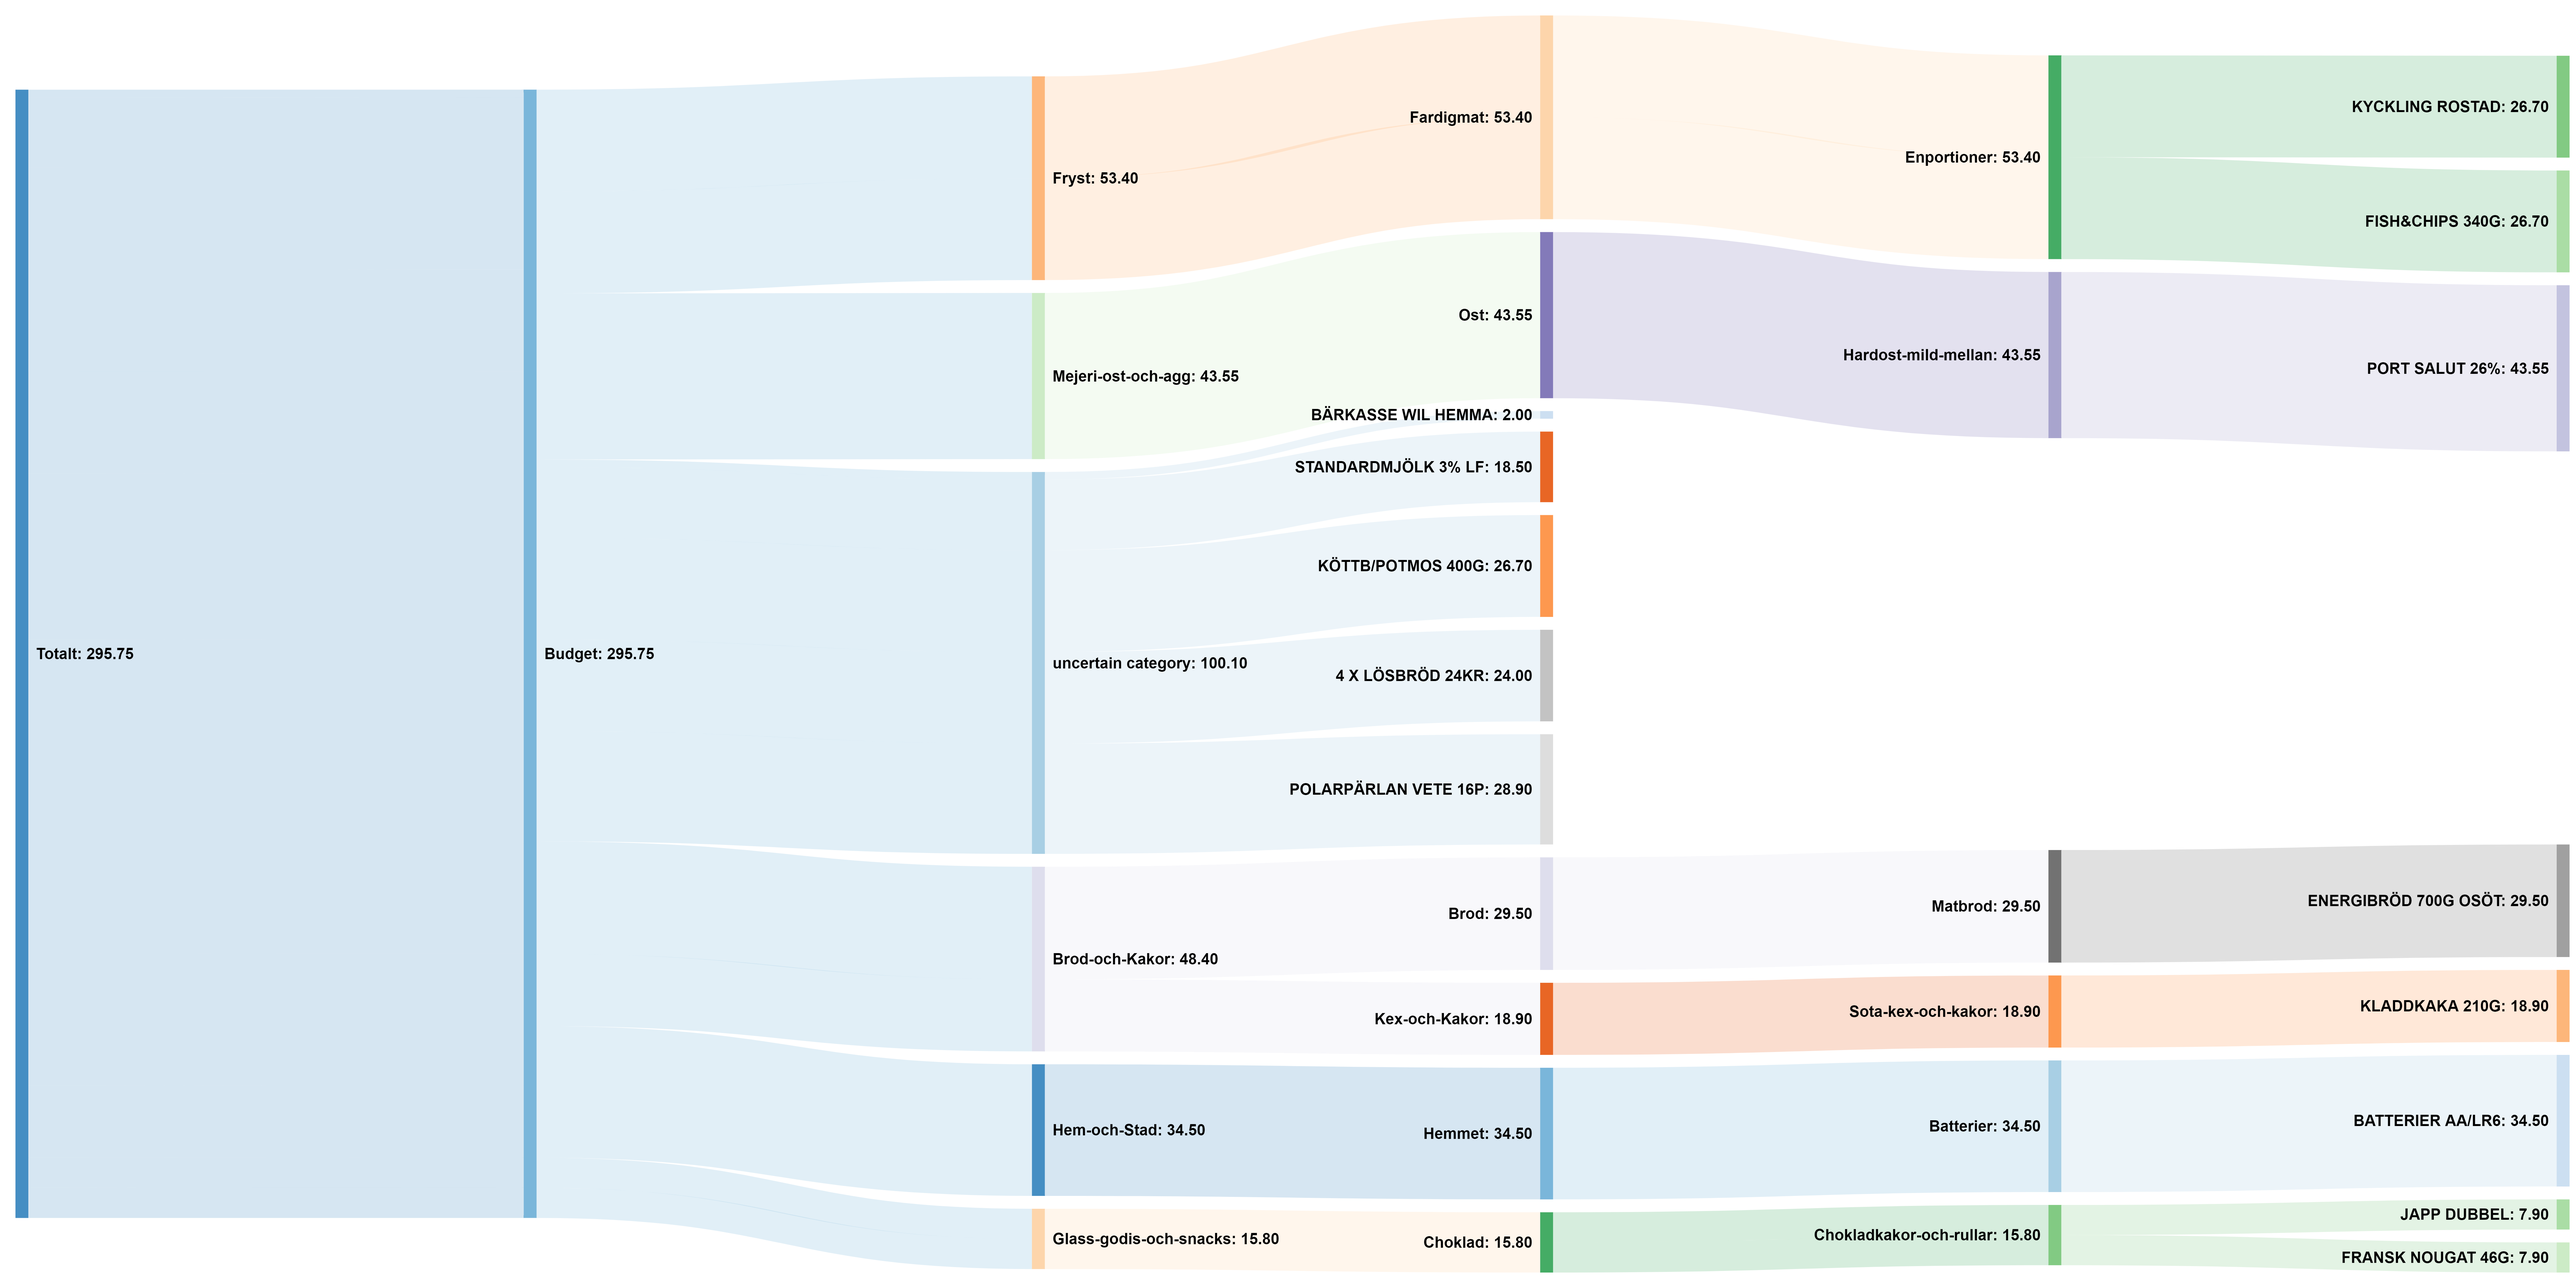
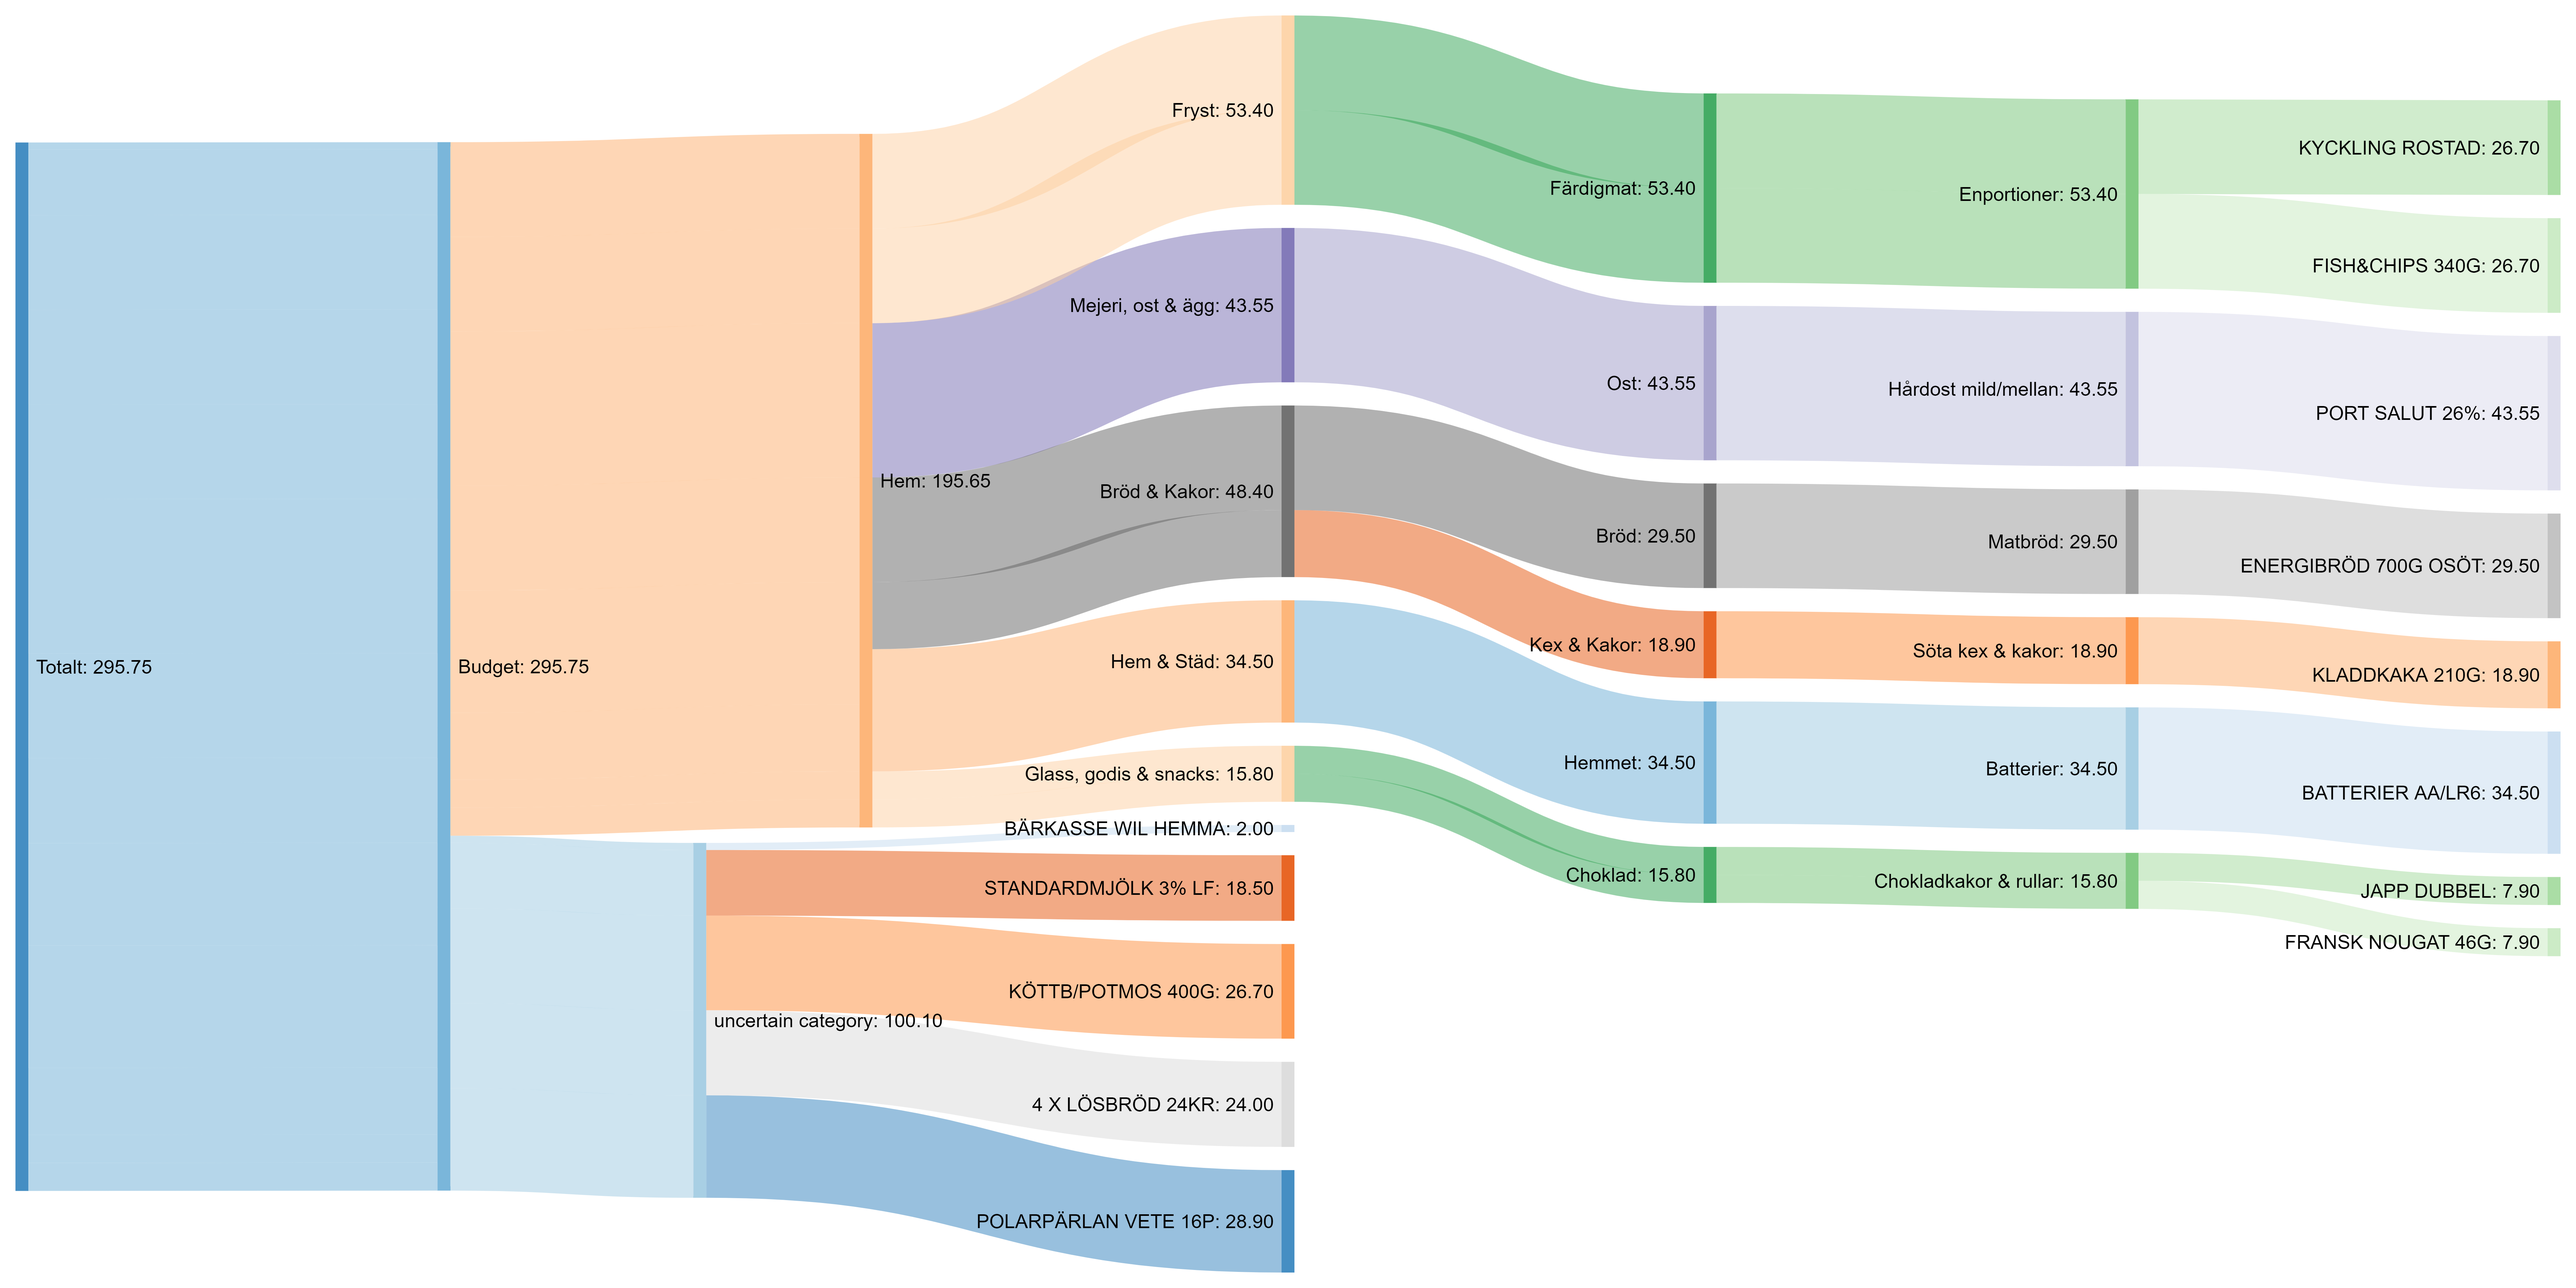
Non functioning. Reading multiple pdfs, but with async issues

diff --git a/willys.js b/willys.js
@@ -18,12 +18,19 @@ var password = "";
 // PDF-parse
 const fs = require('fs');
 const pdf = require('pdf-parse');
-let dataBuffer = fs.readFileSync('examplereceipts/2.pdf');
+
+let dataBuffer = fs.readFileSync('examplereceipts/1.pdf');
 
 //Puppeteer
 const puppeteer = require('puppeteer')
 const screenshot = 'instagram.png';
 
+var theprompt = 
+[
+	{name: 'Press enter to start'},
+    {name: 'username', validator: /^[0-9]{10}$/, warning: 'Användarnamnet skall ha formatet ÅÅMMDDXXXX'},
+    {name: 'password', hidden: true},
+];
 
 
 
@@ -34,22 +41,6 @@ const screenshot = 'instagram.png';
  //---------------------------------------------------------------------------------
 
 /*
-var theprompt = [
-	{
-        name: 'Press enter to start',
-    },
-    {
-        name: 'username',
-		//Regex för att vara på den säkra sidan
-        validator: /^[0-9]{10}$/,
-        //Om Regexen inte stämmer
-        warning: 'Användarnamnet skall ha formatet ÅÅMMDDXXXX'
-    },
-    {
-        name: 'password',
-        hidden: true
-    },
-];
 
 // Starta prompten för att ta användarinput
 prompt.start();
@@ -66,6 +57,7 @@ prompt.get(theprompt, function (err, result) {
 });
 */
 
+
 wellees("name", "password"); //Ta bort denna när prompten läggs in igen
  
  
@@ -79,7 +71,7 @@ function wellees(username, password){
 
 	(async () => {
 		const browser = await puppeteer.launch({
-			headless: false,    
+			headless: true,    
             args: ['--no-sandbox'] //linux-chromium fix
 		});
 
@@ -123,19 +115,17 @@ function wellees(username, password){
 		// let dataBuffer = fs.readFileSync('examplereceipts/1.pdf');
 		*/
 		
+		
+		// - - - - - - D O W N L O A D    R E C E I P T S - - - - - - - 
+		
+		//Download them into a folder named 1.pdf - n.pdf 
+		
+		
 		// - - - - - P A R S E    R E C E I P T S - - - - - -
 		
-		var receiptString = ""; 
-		
-		//Read text from receipt pdf
-		await pdf(dataBuffer).then(function(data) {
-			receiptString = data.text;
-			console.log(data.text);
-		});
-		
-		
 		//Parse receipt to list of articles and their prices
-		var articles = await parseArticles(receiptString); //Articles have structure: [[Article, Price], ...] where article and price are strings
+		var articles = await parseAllArticles("examplereceipts"); //Articles have structure: [[Article, Price], ...] where article and price are strings
+		
 		
 		
 		
@@ -161,7 +151,7 @@ function wellees(username, password){
 
 				//Skip if search yielded no results, and add "uncertain" as category of object
 				if(grid == "<!----><!---->"){
-					articles[i].push(["uncertain category"]);
+					articles[i].push(["Osäker kategori"]);
 					continue;
 				}
 
@@ -173,7 +163,7 @@ function wellees(username, password){
 				await page.waitForSelector("#selenium--product-detail-dialog > md-dialog-content > div.md-dialog-content > p > small:nth-child(2) > a > span"); //Wait for categories to load (all categories have at least 2 levels)
 				const categories = await page.evaluate(() => {
 					let categoryArray = [];
-					let links = document.querySelectorAll("#selenium--product-detail-dialog > md-toolbar > div > div > small > a");
+					let links = document.querySelectorAll("#selenium--product-detail-dialog > md-toolbar > div > div > small > a"); //Each subcategory is a separate link
 					console.log("Hejhej");
 					links.forEach(link => {
 						categoryArray.push(link.firstChild.innerText);
@@ -206,27 +196,45 @@ function wellees(username, password){
 // --------------- R E C E I P T   P A R S I N G -------------------------
 // -----------------------------------------------------------------------
 
-//Input: entry, value, exit. Output: Inputs parsed for sankeymatic.com
-function sankeyLine(entry, value, exit){
-	return entry + " [" + value.replace(",", ".") + "] " + exit + "\n";  
-}
-
-//Input: array of article, price and subcategories. Output: string to paste at sankeymatic.com
-function sankeyGenString(articles){
-	var returnString = "";
-	articles.forEach(function (article){
-		returnString += sankeyLine("Totalt", article[1], "Budget");
-		returnString += sankeyLine("Budget", article[1], article[2][0]);
-		for (var i = 0; i < article[2].length - 1; i ++){
-			returnString += sankeyLine(article[2][i], article[1], article[2][i + 1]);
-		}
-		returnString += sankeyLine(article[2].slice(-1)[0], article[1], article[0]); 
-	});
+function parseAllArticles(path){
+		
+	//Read how many pdf:s are in the receipts folder
+	files = fs.readdirSync(path);
+	pdfs = files.filter(file => file.split(".")[1] == "pdf");
 	
-	return returnString;
+	console.log("Files found: " + pdfs);
+	
+	var allArticles = [];
+	
+	
+	
+	
+	
+	
+	
+	
+	//FORTSÄTT NEDAN! DET DAMPAR FÖR ATT DET ÄR ASYNC!
+	//"UTE UR LOOPEN" PRINTAS INNAN ALLT DET SOM ÄR INNE I LOOPEN
+	
+	
+	
+	
+	
+	
+	
+	
+	
+	for(var i = 0; i < pdfs.length; i++){
+		pdf(fs.readFileSync(path + "/" + (i+1) + ".pdf")).then(function(data) {
+			console.log(parseArticles(data.text));
+			console.log("");
+		});
+	}
+	
+	console.log("Ute ur loopen");
+	
+	return allArticles;
 }
-
-
 
 //Input: Full receipt as string. Output: Array of pairs of items and their respective prices
 function parseArticles(receiptString){
@@ -267,4 +275,30 @@ function parseArticles(receiptString){
 	
 	return articlePricePairs;
 	
+}
+
+
+
+// --------------------------------------------------------------------------
+// --------------- G R A P H    G E N E R A T I N G -------------------------
+// --------------------------------------------------------------------------
+
+
+//Input: entry, value, exit. Output: Inputs parsed for sankeymatic.com
+function sankeyLine(entry, value, exit){
+	return entry + " [" + value.replace(",", ".") + "] " + exit + "\n";  
+}
+
+//Input: array of article, price and subcategories. Output: string to paste at sankeymatic.com
+function sankeyGenString(articles){
+	var returnString = "";
+	articles.forEach(function (article){
+		returnString += sankeyLine("Totalt", article[1], article[2][0]);
+		for (var i = 0; i < article[2].length - 1; i ++){
+			returnString += sankeyLine(article[2][i], article[1], article[2][i + 1]);
+		}
+		returnString += sankeyLine(article[2].slice(-1)[0], article[1], article[0]); 
+	});
+	
+	return returnString;
 }
